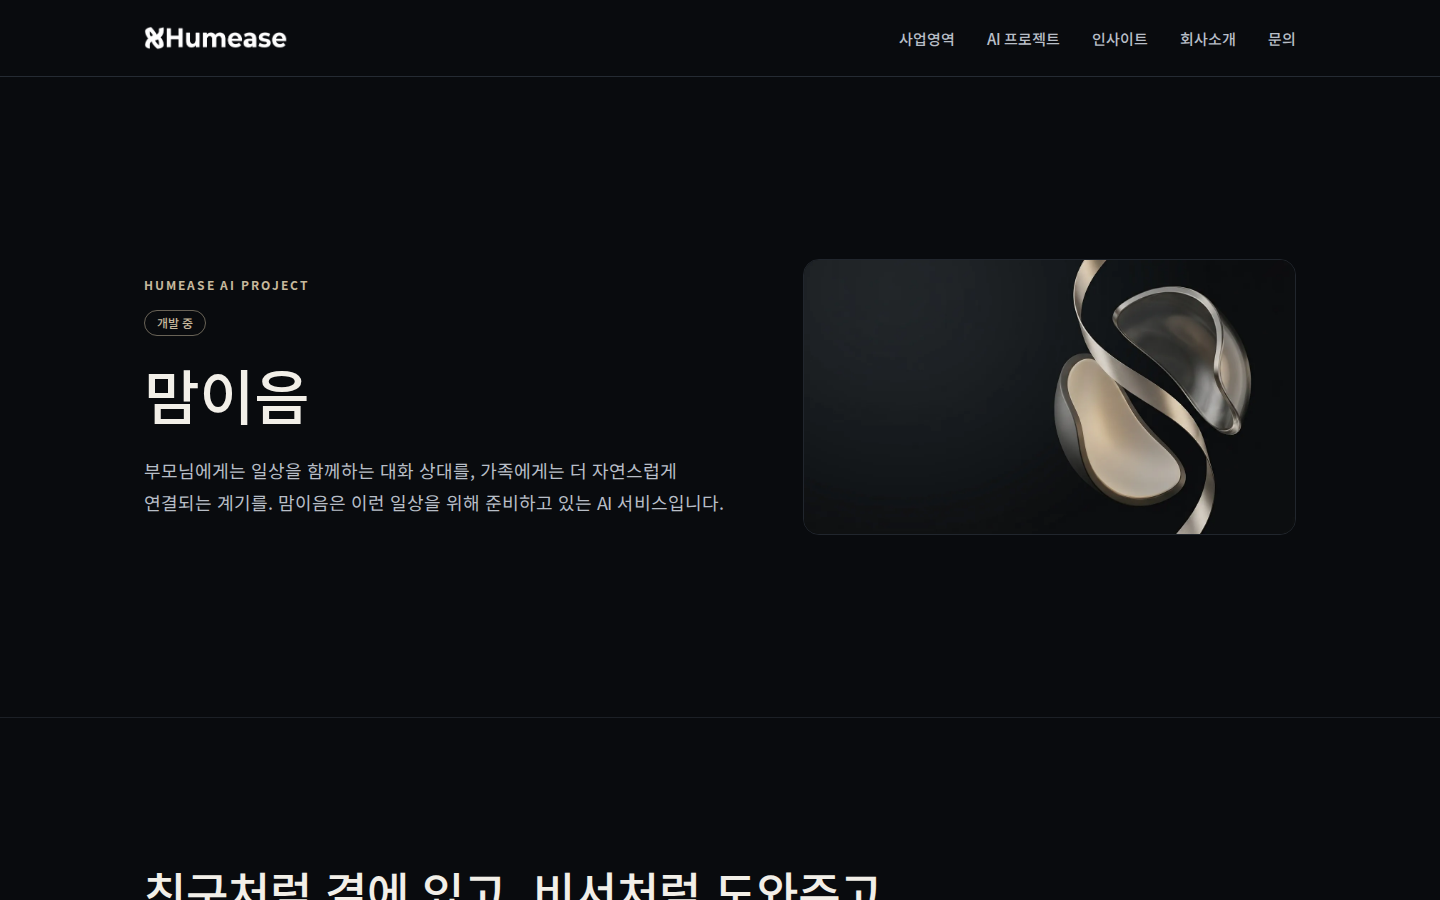
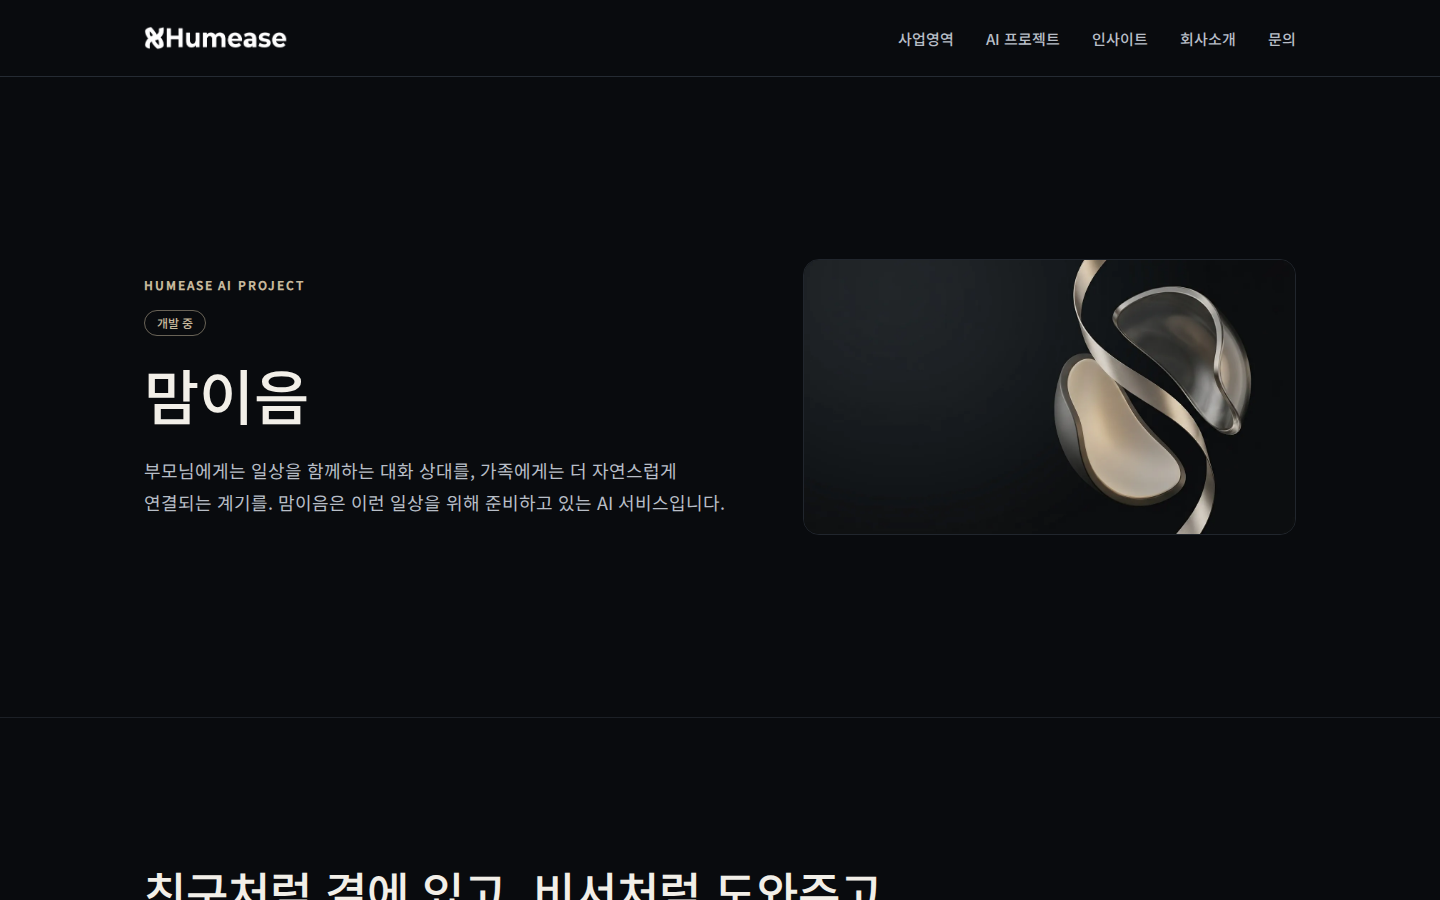
[검수] G1 보고서 2회차 개정 — 1회차 이미지 검수 오판 정정, 성능 98 재측정

diff --git a/docs/reports/G1_QA_RESULTS.md b/docs/reports/G1_QA_RESULTS.md
@@ -1,12 +1,29 @@
 # G1 검수 결과
 
 - 실행: 2026-09-06 / Asia/Seoul
-- 대상: **production build** — https://humease21.github.io/humease-web-v2/ (커밋 `59c930b`)
+- 대상: **production build** — https://humease21.github.io/humease-web-v2/ (커밋 `79ca82d`)
+- 개정: 2회차. 1회차 보고의 이미지 검수 PASS 는 **오판이었다.** 아래 §0 참조.
 - 기준: `docs/08_QA_AND_HANDOFF.md` §2 필수 테스트
 - 도구: Playwright Chromium 153.0.8010.12 / axe-core WCAG 2.1 AA / Lighthouse mobile, simulate throttling, 3회 중앙값
 - 증거: `docs/reports/evidence/`
 
-## 자동 검수 12/12 PASS
+## 0. 1회차 보고 정정 — 검수 자체의 결함
+
+**1회차에서 I03·I04 를 PASS 로 보고했으나 틀렸다.** 당시 사이트의 **모든 이미지와 로고가 404** 였다.
+
+검수 스크립트가 `src` 속성 문자열과 요청 URL 부분일치만 확인하고 **실제 로드 여부를 보지 않았다.**
+404 를 받은 이미지도 `src` 속성은 정상이고 요청 URL 에 파일명이 들어 있어 그대로 통과했다.
+같은 이유로 1회차 Lighthouse Performance 97 도 **이미지가 없는 상태의 무효값**이었다.
+
+원인은 `basePath` 미적용이다. `next.config` 의 `assetPrefix` 는 `_next/*` 에만 적용되며,
+`public/` 파일을 `/images/x.webp` 로 직접 참조하면 Next 가 경로를 다시 쓰지 않아
+프로젝트 Pages 하위 경로에서 404 가 된다. `unoptimized` next/image 와 raw `<img>` 모두 해당한다.
+
+조치: `src/lib/asset-path.ts` 의 `asset()` 으로 basePath 일괄 주입.
+검수 스크립트에는 `naturalWidth > 0` 검사와 4xx/5xx 응답 수집(N01)을 추가했다.
+수정 전 배포본에 새 스크립트를 돌려 **결함을 실제로 잡는 것까지 확인**한 뒤 수정본을 배포했다.
+
+## 자동 검수 13/13 PASS
 
 | ID | 검수 | 결과 | 증거 |
 |---|---|---|---|
@@ -26,22 +43,53 @@
 | A02 | 200% 확대 상당(640px) | PASS | 가로 넘침 없음 |
 | P01 | 클라이언트 번들 비밀 노출 | PASS | service_role·JWT·토큰·webhook 0건 |
 
-## V01 성능 — Lighthouse 모바일 3회 중앙값
+## V01 성능 — Lighthouse 모바일
 
-| 지표 | 결과 | 목표 | 판정 |
+측정 조건: Chrome 153.0.8010.12, mobile form factor, `--throttling-method=simulate`, 캐시 없음.
+배포본은 CDN·네트워크 변동으로 편차가 커(77~98) 중앙값이 불안정했다.
+따라서 **네트워크 변수를 제거한 로컬 프로덕션 빌드(gzip 전송) 5회 중앙값**을 기준값으로 삼고,
+배포본 측정은 참고로 병기한다. basePath 없는 로컬 조건은 커스텀 도메인 전환 후와 동일하다.
+
+| 지표 | 로컬 5회 중앙값 | 목표 | 판정 |
 |---|---|---|---|
-| Performance | **97** | 90 | PASS |
+| Performance | **98** | 90 | PASS |
 | Accessibility | **100** | 95 | PASS |
-| Best Practices | **96** | 95 | PASS |
+| Best Practices | **100** | 95 | PASS |
 | SEO | **100** | 95 | PASS |
 
-LCP 중앙값 2,295ms · CLS 0.000 · 전송량 517KB (예산 1.5MB 이하)
+FCP 766ms · LCP 2,272ms · CLS 0.000 · 전송량 319KB (예산 1.5MB 이하)
+개별 실행 98 / 98 / 94 / 98 / 98 — 편차 4점.
 
-개별 실행: 98 / 79 / 97. **2회차 79 는 네트워크 변동에 의한 이상치**로 LCP 3.7s·TBT 340ms 를 기록했다. 중앙값 기준을 적용하되 이상치 발생 사실을 남긴다.
+### 성능 결함과 조치
 
-## 수정한 결함 2건
+이미지 404 를 고치자 Performance 는 **86 (FAIL)** 로 떨어졌다. 앞선 97 이 무효값이었기 때문이다.
+원인을 추적한 결과 CSS 170.3KB(gzip 51.2KB)의 **100% 가 Noto Sans KR 의 `@font-face` 249개**였다.
+`next/font/google` 이 unicode-range 청크마다 하나씩 생성한 것으로, 렌더 블로킹이라 FCP 2.4초를 만들었다.
+
+공개 카피가 고정된 마케팅 사이트에서 전 글리프를 실어 나를 이유가 없다. 빌드 산출물에서
+실제 사용 글자 396자를 추출해 **가변 서브셋(wght 400-500) 하나로 self-host** 했다.
+디자인 지정 폰트는 그대로 Noto Sans KR 이며 폰트를 교체한 것이 아니다.
+
+| 항목 | 전 | 후 |
+|---|---|---|
+| CSS | 170.3KB (gzip 51.2KB) | 19.9KB (gzip 5.2KB) |
+| `@font-face` | 249개 | 2개 |
+| FCP | 2.4s | **0.77s** |
+| LCP | 3.9s | **2.27s** |
+| 전송량 | 497KB | **319KB** |
+| Performance | 84 | **98** |
+
+함께 적용: favicon 48.5KB → 2.5KB, 폰트 weight 축소, Hero LCP preload.
+
+⚠ **카피를 변경하면 `npm run subset:font` 를 다시 실행해야 한다.** 누락 시 새 글자가 폴백 폰트로 렌더된다.
+
+## 수정한 결함 4건
 
 **U04 CRITICAL — 모바일 메뉴가 열리지 않음.** 헤더의 `backdrop-blur` 가 `position: fixed` 의 containing block 을 생성해, 패널이 64px 헤더 기준으로 배치되며 height 0 이 됐다. `docs/02` §5 가 "스크롤 후 솔리드 배경"을 지정하므로 blur 를 제거해 스펙과 정합화했다.
+
+**자산 전체 404 CRITICAL — basePath 미적용.** §0 참조. 첫 배포부터 모든 이미지·로고가 404 였다.
+
+**폰트 CSS 렌더 블로킹 HIGH — Noto Sans KR @font-face 249개.** 위 성능 절 참조.
 
 **I03 HIGH — 모바일에서 desktop Hero 중복 다운로드.** `next/image` 의 `priority` 가 런타임에 desktop 이미지 preload 를 주입해 `<picture>` 의 media 선택을 우회했다. Hero 반응형 이미지를 순수 `<picture>` 로 교체했다.
 
